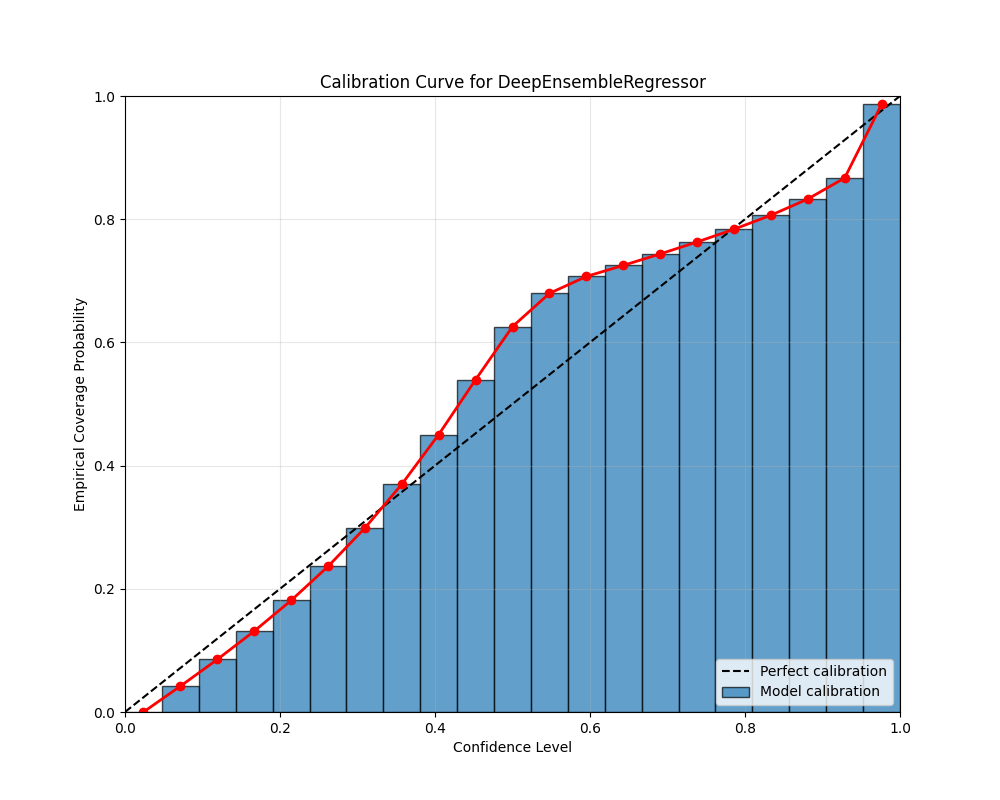
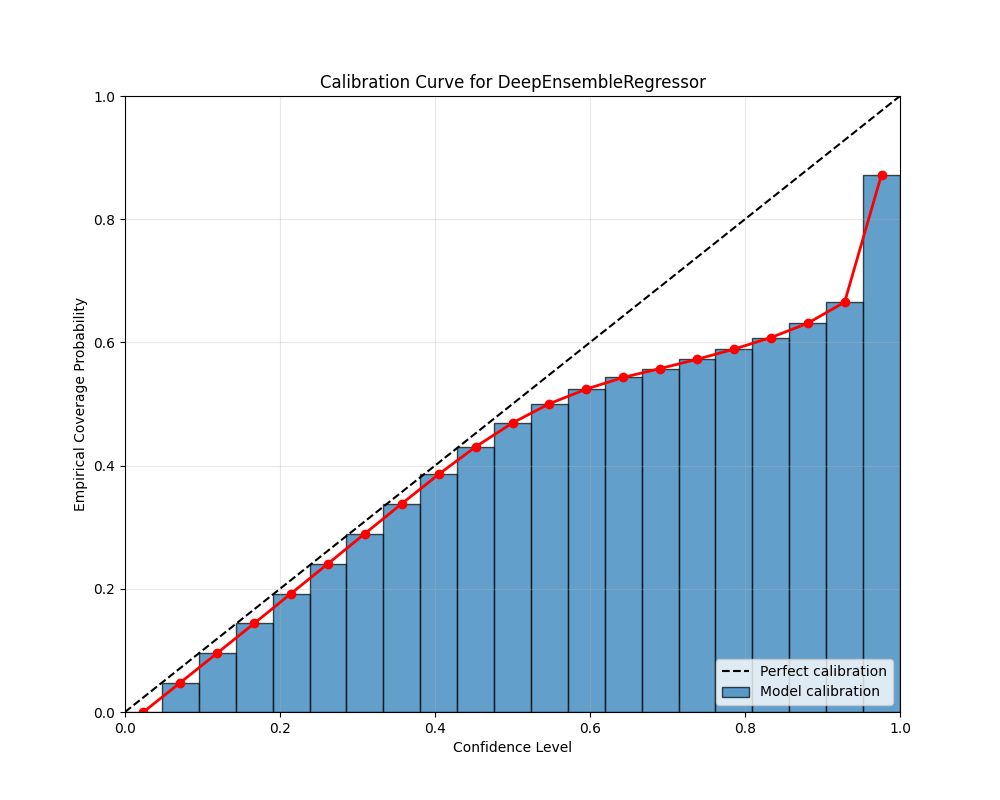
Very messy hyper-param search

Changed region(s): [[0.341, 0.125, 0.899, 0.6875], [0.155, 0.7188, 0.31, 0.875], [0.31, 0.6875, 0.341, 0.7188]]

diff --git a/xai_gp/hyperparam_tuning/hyperparameter_optimization.py b/xai_gp/hyperparam_tuning/hyperparameter_optimization.py
@@ -1,0 +1,198 @@
+import json
+import os
+from functools import partial
+from typing import Dict, Any, Tuple
+from omegaconf import OmegaConf
+
+import torch
+from omegaconf import DictConfig
+from torch.utils.data import DataLoader
+
+from xai_gp.hyperparam_tuning.bayesianoptimizer import BayesianOptimizer
+from xai_gp.hyperparam_tuning.wrappers import (
+    generic_model_factory, train_gp, train_ensemble, 
+    evaluate_model, print_metrics
+)
+from xai_gp.utils.evaluation import is_gp_model
+from xai_gp.models.ensemble import TwoHeadMLP
+
+
+def load_search_space(search_space_path: str, input_dim: int) -> list:
+    """
+    Load and prepare the search space configuration for Bayesian optimization.
+    
+    Args:
+        search_space_path: Path to the JSON file containing search space definition
+        input_dim: Input dimension for the model
+        
+    Returns:
+        List of parameter specifications for Ax
+    """
+    with open(search_space_path, 'r') as f:
+        search_space = json.load(f)
+    
+    # Add fixed parameter for input dimension
+    search_space.append({
+        "name": "input_dim",
+        "type": "fixed",
+        "value": input_dim
+    })
+    
+    return search_space
+
+
+def create_model_instance(params: Dict[str, Any], model_type: str) -> torch.nn.Module:
+    """
+    Create a model instance based on parameters and model type.
+    
+    Args:
+        params: Model parameters from the optimizer
+        model_type: Type of model to create
+        
+    Returns:
+        Instantiated model
+    """
+    # Make a copy of params to avoid modifying the original
+    model_params = params.copy()
+    
+    # Remove training-only parameters that should not be passed to model constructors
+    for param in ['lr', 'num_epochs']:
+        if param in model_params:
+            model_params.pop(param)
+    
+    # Handle parameters that need conversion
+    if "hidden_layers_config" in model_params and isinstance(model_params["hidden_layers_config"], str):
+        model_params["hidden_layers_config"] = json.loads(model_params["hidden_layers_config"])
+    
+    # Map parameter names to the ones expected by the models
+    if "num_inducing" in model_params and model_type in ["DGP", "DSPP"]:
+        model_params["num_inducing_points"] = model_params.pop("num_inducing")
+    
+    # For Deep Ensemble models, create a base model function
+    if model_type in ["DeepEnsembleRegressor", "DeepEnsembleClassifier"]:
+        # Extract parameters for the base model only
+        hidden_layers_config = model_params.pop("hidden_layers_config", None)
+        input_dim = model_params.pop("input_dim", None)
+        
+        # Create base model function
+        base_model = lambda: TwoHeadMLP(
+            input_dim=input_dim,
+            output_dim=1,  # Handled by dataset
+            hidden_layers_config=hidden_layers_config
+        )
+        
+        # Set parameters for the ensemble model
+        model_params["model_fn"] = base_model
+        model_params["num_models"] = model_params.pop("num_ensemble_models", 5)  # Rename parameter
+    
+    # Use the generic model factory to create the model
+    return generic_model_factory(model_params, model_type=model_type)
+
+
+def run_hyperparameter_optimization(
+    cfg: DictConfig, 
+    train_loader: DataLoader, 
+    test_loader: DataLoader,
+    input_shape: Tuple[int, ...], 
+    device: torch.device
+) -> Dict[str, Any]:
+    """
+    Run hyperparameter optimization using Bayesian optimization.
+    
+    Args:
+        cfg: Configuration object
+        train_loader: DataLoader for training data
+        test_loader: DataLoader for test data
+        input_shape: Shape of input data
+        device: Device to run on
+        
+    Returns:
+        Dictionary of best parameters
+    """
+    model_type = cfg.model.type
+    
+    # Get base path for hyperparameter configs
+    base_path = os.path.join(os.path.dirname(os.path.dirname(os.path.dirname(__file__))), "conf")
+    
+    # Determine search space path based on model type
+    if model_type == "DSPPModel":
+        search_space_path = os.path.join(base_path, "hyperparam_dspp.json")
+    elif model_type == "DeepGPModel":
+        search_space_path = os.path.join(base_path, "hyperparam_deepgp.json") 
+    elif model_type in ["DeepEnsembleRegressor", "DeepEnsembleClassifier"]:
+        search_space_path = os.path.join(base_path, "hyperparam_ensemble_mlp.json")
+    else:
+        raise ValueError(f"Unknown model type: {model_type}")
+    
+    # Check if search_space_path is provided in config and is valid
+    try:
+        config_path = OmegaConf.select(cfg, "hyperparam_tuning.search_space_path")
+        if config_path and config_path != "???":
+            search_space_path = config_path
+    except Exception:
+        # If there's any error accessing the path, use the default
+        pass
+    
+    print(f"Using search space configuration from: {search_space_path}")
+    
+    # Load search space and add input dimension
+    search_space = load_search_space(search_space_path, input_shape[1])
+    
+    # Create model factory function
+    model_factory = partial(create_model_instance, model_type=model_type)
+    
+    # Create training function
+    if is_gp_model(model_type):
+        gp_mode = "DSPP" if model_type == "DSPPModel" else "DeepGP"
+        train_fn = partial(train_gp, data_loader=train_loader, gp_mode=gp_mode)
+    else:
+        task_type = cfg.data.task_type
+        train_fn = partial(train_ensemble, data_loader=train_loader, task_type=task_type)
+    
+    # Create evaluation function
+    eval_fn = partial(evaluate_model, test_loader=test_loader, task_type=cfg.data.task_type)
+    
+    # Create and run optimizer
+    optimizer = BayesianOptimizer(
+        search_space=search_space,
+        model_factory=model_factory,
+        train_fn=train_fn,
+        eval_fn=eval_fn,
+        device=device,
+        objective_name=cfg.hyperparam_tuning.objective_metric,
+        minimize=cfg.hyperparam_tuning.minimize
+    )
+    
+    print(f"Running Bayesian optimization with {cfg.hyperparam_tuning.n_trials} trials...")
+    best_params = optimizer.optimize(n_trials=cfg.hyperparam_tuning.n_trials)
+    
+    # Print and return best parameters
+    print("\nBest parameters found:")
+    for param, value in best_params.items():
+        print(f"  {param}: {value}")
+    
+    return best_params
+
+
+def get_best_model(best_params: Dict[str, Any], cfg: DictConfig, device: torch.device) -> Tuple[torch.nn.Module, torch.optim.Optimizer]:
+    """
+    Create a model from the best parameters found by the optimizer.
+    
+    Args:
+        best_params: Best parameters found by optimizer
+        cfg: Configuration object
+        device: Device to run on
+        
+    Returns:
+        Tuple of (model, optimizer)
+    """
+    model_type = cfg.model.type
+    model = create_model_instance(best_params, model_type).to(device)
+    
+    # Create optimizer
+    optimizer = getattr(torch.optim, cfg.training.optimizer)(
+        model.parameters(),
+        lr=best_params.get("lr", cfg.training.learning_rate)
+    )
+    
+    return model, optimizer

diff --git a/xai_gp/main.py b/xai_gp/main.py
@@ -1,6 +1,10 @@
 from omegaconf import DictConfig
 from xai_gp.utils.training import train_model, prepare_data, initialize_model
 from xai_gp.utils.evaluation import evaluate_model, is_gp_model
+from xai_gp.hyperparam_tuning.hyperparameter_optimization import (
+    run_hyperparameter_optimization,
+    get_best_model
+)
 
 import torch
 import hydra
@@ -15,12 +19,27 @@ def main(cfg: DictConfig):
     # Prepare data
     train_loader, test_loader, input_shape = prepare_data(cfg, device)
 
-    # Initialize model
-    model, optimizer = initialize_model(cfg, input_shape, device)
-
-    # Train and evaluate model
-    train_model(model, train_loader, optimizer, cfg)
-    evaluate_model(model, test_loader, cfg)
+    # Check if hyperparameter tuning is enabled
+    if cfg.get("hyperparam_tuning", {}).get("enabled", False):
+        print("Running hyperparameter optimization...")
+        
+        # Run optimization to find best parameters
+        best_params = run_hyperparameter_optimization(
+            cfg, train_loader, test_loader, input_shape, device
+        )
+        
+        # Initialize model with best parameters
+        model, optimizer = get_best_model(best_params, cfg, device)
+        
+        # Train final model with best parameters
+        print("\nTraining final model with best parameters...")
+        train_model(model, train_loader, optimizer, cfg)
+        evaluate_model(model, test_loader, cfg)
+    else:
+        # Standard training workflow
+        model, optimizer = initialize_model(cfg, input_shape, device)
+        train_model(model, train_loader, optimizer, cfg)
+        evaluate_model(model, test_loader, cfg)
 
 
 if __name__ == "__main__":

diff --git a/xai_gp/hyperparam_tuning/bayesianoptimizer.py b/xai_gp/hyperparam_tuning/bayesianoptimizer.py
@@ -62,19 +62,19 @@ class BayesianOptimizer:
 
     def run_trial(self, params: Dict[str, Any]) -> Dict[str, float]:
         """Execute a single optimization trial"""
-        try:
-            model = self.model_factory(params).to(self.device)
 
-            train_loss = self.train_fn(model, params)
+        model = self.model_factory(params).to(self.device)
+        train_loss = self.train_fn(model, params)
+        metrics = self.eval_fn(model)
+        metrics["train_loss"] = train_loss  # Always track training loss
+        
+        # Print successful trial metrics
+        print(f"Trial successful with metrics: RMSE={metrics.get('rmse', 'N/A'):.6f}, "
+                f"MAE={metrics.get('mae', 'N/A'):.6f}, "
+                f"R²={metrics.get('r2', 'N/A'):.6f}")
+                
+        return metrics
 
-            metrics = self.eval_fn(model)
-            metrics["train_loss"] = train_loss  # Always track training loss
-
-            return metrics
-
-        except Exception as e:
-            print(f"Trial failed with params {params}: {str(e)}")
-            return {m: float("inf") for m in self.tracking_metrics}
 
     def optimize(self, n_trials: int = 50) -> Dict[str, Any]:
         """Main optimization loop"""

diff --git a/xai_gp/utils/evaluation.py b/xai_gp/utils/evaluation.py
@@ -22,7 +22,7 @@ def extract_predictions(model, batch_x):
         mvr = model.posterior(batch_x, apply_likelihood=True)
         means, vars = mvr.mean, mvr.variance
         mean = means.mean(dim=0)
-        var = vars.mean(dim=0) # (vars + torch.square(means)).mean(dim=0) - mean
+        var = vars.mean(dim=0)
         return mean, var
     else:
         mean, variance = model(batch_x)
@@ -101,7 +101,6 @@ def evaluate_model(model, test_loader, cfg):
 
         test_targets = torch.tensor(all_targets).cpu()
 
-        # GPs return a list of means and variances for each point while other models return a single tensor for the whole ensemble
         test_means = torch.cat(all_means, dim=0).cpu()
         test_variances = torch.cat(all_variances, dim=0).cpu()
 

diff --git a/xai_gp/hyperparam_tuning/wrappers.py b/xai_gp/hyperparam_tuning/wrappers.py
@@ -134,8 +134,8 @@ def evaluate_model(model: nn.Module, test_loader, task_type="regression") -> Dic
         test_targets = test_targets.numpy()
 
         # Calibration metrics
-        calibration_error = regressor_calibration_error(test_means, test_stds, test_targets)
-        conf, acc = regressor_calibration_curve(test_means, test_stds, test_targets)
+        calibration_error = regressor_calibration_error(test_means, test_targets, test_stds)
+        conf, acc = regressor_calibration_curve(test_means, test_targets, test_stds)
 
         metrics.update({
             'calibration_error': calibration_error,
